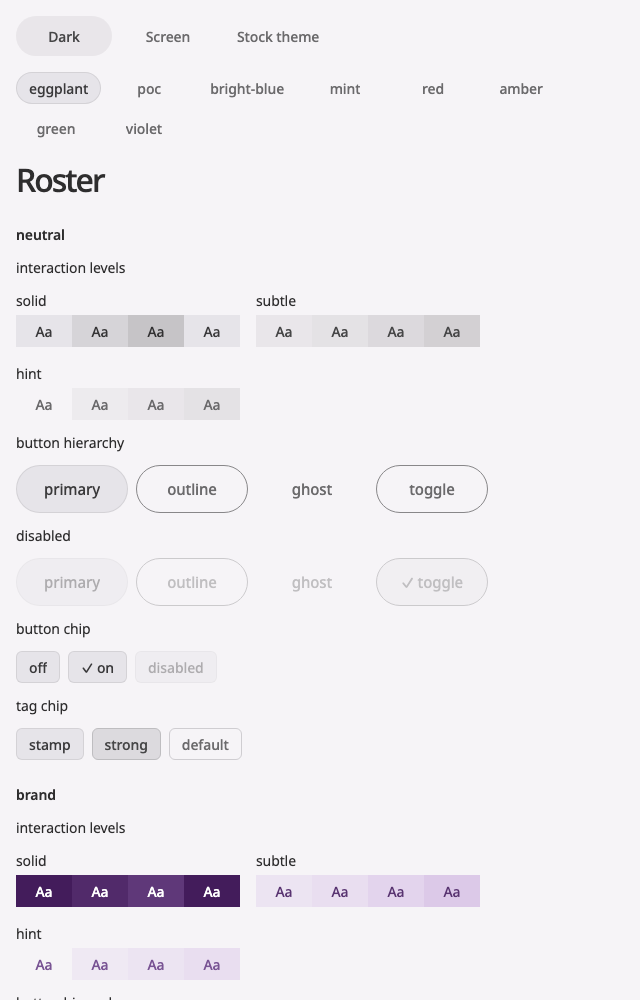
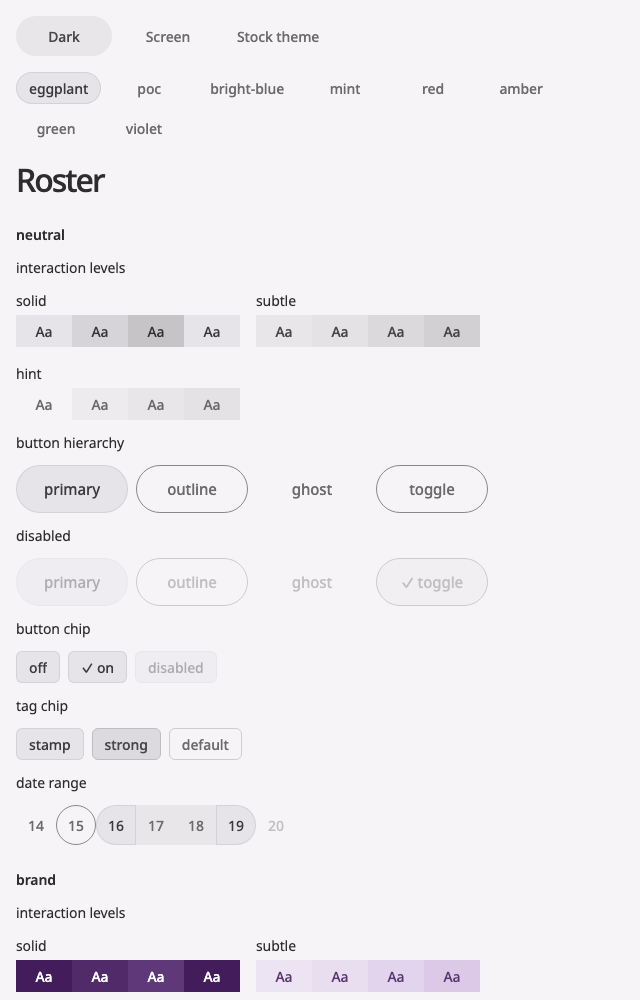
docs(date-picker): the checklist section and record, the exhibit record and shots, the DayCell print set
The checklist gains the picker's ten lines and the record of the automated
run: 37 checks in light and 37 in dark under trusted key and mouse events,
with the hand lines owed listed. The exhibit record adds the picker's shots,
web and native, both modes: the period fields, the calendar dialog, the
roster band. The screen shots are 1300 tall so the period block is in frame.

The print gains the DayCell set, Place by State, 28 variants: a day and
today neutral on the cell, the ends on the solid layer, inside on the subtle
layer at rest, the preview on the hint layer at its hover rung, the band in
the corners. The state-layer instance now copies its host's four corners, so
a host with mixed corners is matched. Both plugin forms regenerated; dry run
clean in the scratch file.

diff --git a/scripts/figma/plugin/code.js b/scripts/figma/plugin/code.js
@@ -10,6 +10,7 @@ const LAYERS = {"solid":[{"state":"resting","fill":"stamp/fill"},{"state":"hover
 const BUTTON = [{"kind":"primary","state":"enabled","layer":"solid","stroke":"stamp/edge","text":"stamp/on","layerState":"resting","opacity":1},{"kind":"primary","state":"hover","layer":"solid","stroke":"stamp/edge","text":"stamp/on","layerState":"hover","opacity":1},{"kind":"primary","state":"pressed","layer":"solid","stroke":"stamp/edge","text":"stamp/on","layerState":"pressed","opacity":1},{"kind":"primary","state":"disabled","layer":"solid","stroke":"stamp/edge","text":"stamp/on","layerState":"disabled","opacity":0.38},{"kind":"outline","state":"enabled","layer":"hint","stroke":"highlighter-26","text":"pencil-47","layerState":"resting","opacity":1},{"kind":"outline","state":"hover","layer":"hint","stroke":"highlighter-26","text":"pencil-47","layerState":"hover","opacity":1},{"kind":"outline","state":"pressed","layer":"hint","stroke":"highlighter-26","text":"pencil-47","layerState":"pressed","opacity":1},{"kind":"outline","state":"disabled","layer":"hint","stroke":"highlighter-26","text":"pencil-47","layerState":"disabled","opacity":0.38},{"kind":"ghost","state":"enabled","layer":"hint","stroke":null,"text":"pencil-47","layerState":"resting","opacity":1},{"kind":"ghost","state":"hover","layer":"hint","stroke":null,"text":"pencil-47","layerState":"hover","opacity":1},{"kind":"ghost","state":"pressed","layer":"hint","stroke":null,"text":"pencil-47","layerState":"pressed","opacity":1},{"kind":"ghost","state":"disabled","layer":"hint","stroke":null,"text":"pencil-47","layerState":"disabled","opacity":0.38},{"kind":"toggle","state":"enabled","layer":"subtle","stroke":"highlighter-26","text":"pencil-47","layerState":"resting","opacity":1},{"kind":"toggle","state":"hover","layer":"subtle","stroke":"highlighter-26","text":"pencil-47","layerState":"hover","opacity":1},{"kind":"toggle","state":"pressed","layer":"subtle","stroke":"highlighter-26","text":"pencil-47","layerState":"pressed","opacity":1},{"kind":"toggle","state":"disabled","layer":"subtle","stroke":"highlighter-26","text":"pencil-47","layerState":"disabled","opacity":0.38}]
 const CHIP = [{"on":false,"state":"enabled","layerState":"resting","opacity":1},{"on":false,"state":"hover","layerState":"hover","opacity":1},{"on":false,"state":"pressed","layerState":"pressed","opacity":1},{"on":false,"state":"disabled","layerState":"disabled","opacity":0.38},{"on":true,"state":"enabled","layerState":"resting","opacity":1},{"on":true,"state":"hover","layerState":"hover","opacity":1},{"on":true,"state":"pressed","layerState":"pressed","opacity":1},{"on":true,"state":"disabled","layerState":"disabled","opacity":0.38}]
 const INDICATOR = [{"level":"stamp","size":"md","height":32,"fill":"stamp/fill","text":"stamp/on","stroke":"stamp/edge"},{"level":"stamp","size":"sm","height":24,"fill":"stamp/fill","text":"stamp/on","stroke":"stamp/edge"},{"level":"strong","size":"md","height":32,"fill":"chalk-11","text":"pen-58","stroke":"chalk-20"},{"level":"strong","size":"sm","height":24,"fill":"chalk-11","text":"pen-58","stroke":"chalk-20"},{"level":"default","size":"md","height":32,"fill":"paper-3","text":"pencil-47","stroke":"chalk-15"},{"level":"default","size":"sm","height":24,"fill":"paper-3","text":"pencil-47","stroke":"chalk-15"}]
+const DAYCELL = [{"place":"day","state":"enabled","layer":"hint","stroke":null,"text":"pencil-47","neutral":true,"corners":"all","layerState":"resting","opacity":1},{"place":"day","state":"hover","layer":"hint","stroke":null,"text":"pencil-47","neutral":true,"corners":"all","layerState":"hover","opacity":1},{"place":"day","state":"pressed","layer":"hint","stroke":null,"text":"pencil-47","neutral":true,"corners":"all","layerState":"pressed","opacity":1},{"place":"day","state":"disabled","layer":"hint","stroke":null,"text":"pencil-47","neutral":true,"corners":"all","layerState":"disabled","opacity":0.38},{"place":"today","state":"enabled","layer":"hint","stroke":"highlighter-26","text":"pencil-47","neutral":true,"corners":"all","layerState":"resting","opacity":1},{"place":"today","state":"hover","layer":"hint","stroke":"highlighter-26","text":"pencil-47","neutral":true,"corners":"all","layerState":"hover","opacity":1},{"place":"today","state":"pressed","layer":"hint","stroke":"highlighter-26","text":"pencil-47","neutral":true,"corners":"all","layerState":"pressed","opacity":1},{"place":"today","state":"disabled","layer":"hint","stroke":"highlighter-26","text":"pencil-47","neutral":true,"corners":"all","layerState":"disabled","opacity":0.38},{"place":"start","state":"enabled","layer":"solid","stroke":"stamp/edge","text":"stamp/on","neutral":false,"corners":"left","layerState":"resting","opacity":1},{"place":"start","state":"hover","layer":"solid","stroke":"stamp/edge","text":"stamp/on","neutral":false,"corners":"left","layerState":"hover","opacity":1},{"place":"start","state":"pressed","layer":"solid","stroke":"stamp/edge","text":"stamp/on","neutral":false,"corners":"left","layerState":"pressed","opacity":1},{"place":"start","state":"disabled","layer":"solid","stroke":"stamp/edge","text":"stamp/on","neutral":false,"corners":"left","layerState":"disabled","opacity":0.38},{"place":"inside","state":"enabled","layer":"subtle","stroke":null,"text":"pencil-47","neutral":false,"corners":"none","layerState":"resting","opacity":1},{"place":"inside","state":"hover","layer":"subtle","stroke":null,"text":"pencil-47","neutral":false,"corners":"none","layerState":"hover","opacity":1},{"place":"inside","state":"pressed","layer":"subtle","stroke":null,"text":"pencil-47","neutral":false,"corners":"none","layerState":"pressed","opacity":1},{"place":"inside","state":"disabled","layer":"subtle","stroke":null,"text":"pencil-47","neutral":false,"corners":"none","layerState":"disabled","opacity":0.38},{"place":"end","state":"enabled","layer":"solid","stroke":"stamp/edge","text":"stamp/on","neutral":false,"corners":"right","layerState":"resting","opacity":1},{"place":"end","state":"hover","layer":"solid","stroke":"stamp/edge","text":"stamp/on","neutral":false,"corners":"right","layerState":"hover","opacity":1},{"place":"end","state":"pressed","layer":"solid","stroke":"stamp/edge","text":"stamp/on","neutral":false,"corners":"right","layerState":"pressed","opacity":1},{"place":"end","state":"disabled","layer":"solid","stroke":"stamp/edge","text":"stamp/on","neutral":false,"corners":"right","layerState":"disabled","opacity":0.38},{"place":"single","state":"enabled","layer":"solid","stroke":"stamp/edge","text":"stamp/on","neutral":false,"corners":"all","layerState":"resting","opacity":1},{"place":"single","state":"hover","layer":"solid","stroke":"stamp/edge","text":"stamp/on","neutral":false,"corners":"all","layerState":"hover","opacity":1},{"place":"single","state":"pressed","layer":"solid","stroke":"stamp/edge","text":"stamp/on","neutral":false,"corners":"all","layerState":"pressed","opacity":1},{"place":"single","state":"disabled","layer":"solid","stroke":"stamp/edge","text":"stamp/on","neutral":false,"corners":"all","layerState":"disabled","opacity":0.38},{"place":"preview","state":"enabled","layer":"hint","stroke":null,"text":"pencil-47","neutral":false,"corners":"none","layerState":"hover","opacity":1},{"place":"preview","state":"hover","layer":"hint","stroke":null,"text":"pencil-47","neutral":false,"corners":"none","layerState":"hover","opacity":1},{"place":"preview","state":"pressed","layer":"hint","stroke":null,"text":"pencil-47","neutral":false,"corners":"none","layerState":"hover","opacity":1},{"place":"preview","state":"disabled","layer":"hint","stroke":null,"text":"pencil-47","neutral":false,"corners":"none","layerState":"hover","opacity":0.38}]
 const INPUT = [{"state":"enabled","family":"neutral"},{"state":"focus","family":"brand"},{"state":"invalid","family":"critical"}]
 const PATHS = {"surfaceHigh":"utility/surface/high","black":"base/absolute/black","scrim":"utility/opacity/064"}
 
@@ -124,7 +125,8 @@ const layerInto = (host, tier, props) => {
   if (!variant) { summary.missing.push('state-layer/' + tier + ' ' + JSON.stringify(props)); return }
   const inst = variant.createInstance(); host.insertChild(0, inst)
   inst.layoutPositioning = 'ABSOLUTE'; inst.constraints = { horizontal: 'STRETCH', vertical: 'STRETCH' }
-  inst.x = 0; inst.y = 0; inst.resize(host.width, host.height); inst.cornerRadius = host.cornerRadius
+  inst.x = 0; inst.y = 0; inst.resize(host.width, host.height)
+  inst.topLeftRadius = host.topLeftRadius; inst.topRightRadius = host.topRightRadius; inst.bottomLeftRadius = host.bottomLeftRadius; inst.bottomRightRadius = host.bottomRightRadius
   return inst
 }
 
@@ -185,6 +187,23 @@ else {
     comps.push(c)
   }
   finishSet(comps, 'IndicatorChip', 'The tag chip, a label that takes no press, on the scale rows of its level. Family is the color family mode on the instance. In code: <IndicatorChip theme="<family>_indicator-<level>">.')
+}
+
+if (existingSet('DayCell')) summary.skipped.push('DayCell set exists; left as is')
+else {
+  const comps = []
+  for (const v of DAYCELL) {
+    const f = frame('day', 40, 40, 0); f.primaryAxisSizingMode = 'FIXED'; f.counterAxisSizingMode = 'FIXED'; f.resize(40, 40); f.paddingTop = f.paddingBottom = 0
+    const r = v.corners === 'all' ? [10000, 10000, 10000, 10000] : v.corners === 'left' ? [10000, 0, 0, 10000] : v.corners === 'right' ? [0, 10000, 10000, 0] : [0, 0, 0, 0]
+    f.topLeftRadius = r[0]; f.topRightRadius = r[1]; f.bottomRightRadius = r[2]; f.bottomLeftRadius = r[3]
+    if (v.stroke) f.strokes = [solid(cfVar[v.stroke])]
+    f.appendChild(text('15', 'Medium', cfVar[v.text])); f.children[f.children.length - 1].fontSize = 14
+    layerInto(f, v.layer, { state: v.layerState })
+    if (v.neutral) setMode(f, NEUTRAL)
+    const c = component(f, v.opacity); c.name = 'Place=' + v.place + ', State=' + v.state
+    comps.push(c)
+  }
+  finishSet(comps, 'DayCell', 'A day in the date range picker\'s calendar (docs/date-picker.md). A day and today are neutral on the cell; the ends of the range are the family\'s stamp by the color family mode on the instance; inside is the subtle layer at rest, the selected ground; the preview is the hint layer at its hover rung; the band is the corners. In code: <DayCell family="<family>" place="<place>">.')
 }
 
 if (page.children.some(n => n.type === 'COMPONENT' && n.name === 'Dialog')) summary.skipped.push('Dialog exists; left as is')

diff --git a/scripts/figma/plugin/code.mcp.js b/scripts/figma/plugin/code.mcp.js
@@ -9,6 +9,7 @@ const LAYERS = {"solid":[{"state":"resting","fill":"stamp/fill"},{"state":"hover
 const BUTTON = [{"kind":"primary","state":"enabled","layer":"solid","stroke":"stamp/edge","text":"stamp/on","layerState":"resting","opacity":1},{"kind":"primary","state":"hover","layer":"solid","stroke":"stamp/edge","text":"stamp/on","layerState":"hover","opacity":1},{"kind":"primary","state":"pressed","layer":"solid","stroke":"stamp/edge","text":"stamp/on","layerState":"pressed","opacity":1},{"kind":"primary","state":"disabled","layer":"solid","stroke":"stamp/edge","text":"stamp/on","layerState":"disabled","opacity":0.38},{"kind":"outline","state":"enabled","layer":"hint","stroke":"highlighter-26","text":"pencil-47","layerState":"resting","opacity":1},{"kind":"outline","state":"hover","layer":"hint","stroke":"highlighter-26","text":"pencil-47","layerState":"hover","opacity":1},{"kind":"outline","state":"pressed","layer":"hint","stroke":"highlighter-26","text":"pencil-47","layerState":"pressed","opacity":1},{"kind":"outline","state":"disabled","layer":"hint","stroke":"highlighter-26","text":"pencil-47","layerState":"disabled","opacity":0.38},{"kind":"ghost","state":"enabled","layer":"hint","stroke":null,"text":"pencil-47","layerState":"resting","opacity":1},{"kind":"ghost","state":"hover","layer":"hint","stroke":null,"text":"pencil-47","layerState":"hover","opacity":1},{"kind":"ghost","state":"pressed","layer":"hint","stroke":null,"text":"pencil-47","layerState":"pressed","opacity":1},{"kind":"ghost","state":"disabled","layer":"hint","stroke":null,"text":"pencil-47","layerState":"disabled","opacity":0.38},{"kind":"toggle","state":"enabled","layer":"subtle","stroke":"highlighter-26","text":"pencil-47","layerState":"resting","opacity":1},{"kind":"toggle","state":"hover","layer":"subtle","stroke":"highlighter-26","text":"pencil-47","layerState":"hover","opacity":1},{"kind":"toggle","state":"pressed","layer":"subtle","stroke":"highlighter-26","text":"pencil-47","layerState":"pressed","opacity":1},{"kind":"toggle","state":"disabled","layer":"subtle","stroke":"highlighter-26","text":"pencil-47","layerState":"disabled","opacity":0.38}]
 const CHIP = [{"on":false,"state":"enabled","layerState":"resting","opacity":1},{"on":false,"state":"hover","layerState":"hover","opacity":1},{"on":false,"state":"pressed","layerState":"pressed","opacity":1},{"on":false,"state":"disabled","layerState":"disabled","opacity":0.38},{"on":true,"state":"enabled","layerState":"resting","opacity":1},{"on":true,"state":"hover","layerState":"hover","opacity":1},{"on":true,"state":"pressed","layerState":"pressed","opacity":1},{"on":true,"state":"disabled","layerState":"disabled","opacity":0.38}]
 const INDICATOR = [{"level":"stamp","size":"md","height":32,"fill":"stamp/fill","text":"stamp/on","stroke":"stamp/edge"},{"level":"stamp","size":"sm","height":24,"fill":"stamp/fill","text":"stamp/on","stroke":"stamp/edge"},{"level":"strong","size":"md","height":32,"fill":"chalk-11","text":"pen-58","stroke":"chalk-20"},{"level":"strong","size":"sm","height":24,"fill":"chalk-11","text":"pen-58","stroke":"chalk-20"},{"level":"default","size":"md","height":32,"fill":"paper-3","text":"pencil-47","stroke":"chalk-15"},{"level":"default","size":"sm","height":24,"fill":"paper-3","text":"pencil-47","stroke":"chalk-15"}]
+const DAYCELL = [{"place":"day","state":"enabled","layer":"hint","stroke":null,"text":"pencil-47","neutral":true,"corners":"all","layerState":"resting","opacity":1},{"place":"day","state":"hover","layer":"hint","stroke":null,"text":"pencil-47","neutral":true,"corners":"all","layerState":"hover","opacity":1},{"place":"day","state":"pressed","layer":"hint","stroke":null,"text":"pencil-47","neutral":true,"corners":"all","layerState":"pressed","opacity":1},{"place":"day","state":"disabled","layer":"hint","stroke":null,"text":"pencil-47","neutral":true,"corners":"all","layerState":"disabled","opacity":0.38},{"place":"today","state":"enabled","layer":"hint","stroke":"highlighter-26","text":"pencil-47","neutral":true,"corners":"all","layerState":"resting","opacity":1},{"place":"today","state":"hover","layer":"hint","stroke":"highlighter-26","text":"pencil-47","neutral":true,"corners":"all","layerState":"hover","opacity":1},{"place":"today","state":"pressed","layer":"hint","stroke":"highlighter-26","text":"pencil-47","neutral":true,"corners":"all","layerState":"pressed","opacity":1},{"place":"today","state":"disabled","layer":"hint","stroke":"highlighter-26","text":"pencil-47","neutral":true,"corners":"all","layerState":"disabled","opacity":0.38},{"place":"start","state":"enabled","layer":"solid","stroke":"stamp/edge","text":"stamp/on","neutral":false,"corners":"left","layerState":"resting","opacity":1},{"place":"start","state":"hover","layer":"solid","stroke":"stamp/edge","text":"stamp/on","neutral":false,"corners":"left","layerState":"hover","opacity":1},{"place":"start","state":"pressed","layer":"solid","stroke":"stamp/edge","text":"stamp/on","neutral":false,"corners":"left","layerState":"pressed","opacity":1},{"place":"start","state":"disabled","layer":"solid","stroke":"stamp/edge","text":"stamp/on","neutral":false,"corners":"left","layerState":"disabled","opacity":0.38},{"place":"inside","state":"enabled","layer":"subtle","stroke":null,"text":"pencil-47","neutral":false,"corners":"none","layerState":"resting","opacity":1},{"place":"inside","state":"hover","layer":"subtle","stroke":null,"text":"pencil-47","neutral":false,"corners":"none","layerState":"hover","opacity":1},{"place":"inside","state":"pressed","layer":"subtle","stroke":null,"text":"pencil-47","neutral":false,"corners":"none","layerState":"pressed","opacity":1},{"place":"inside","state":"disabled","layer":"subtle","stroke":null,"text":"pencil-47","neutral":false,"corners":"none","layerState":"disabled","opacity":0.38},{"place":"end","state":"enabled","layer":"solid","stroke":"stamp/edge","text":"stamp/on","neutral":false,"corners":"right","layerState":"resting","opacity":1},{"place":"end","state":"hover","layer":"solid","stroke":"stamp/edge","text":"stamp/on","neutral":false,"corners":"right","layerState":"hover","opacity":1},{"place":"end","state":"pressed","layer":"solid","stroke":"stamp/edge","text":"stamp/on","neutral":false,"corners":"right","layerState":"pressed","opacity":1},{"place":"end","state":"disabled","layer":"solid","stroke":"stamp/edge","text":"stamp/on","neutral":false,"corners":"right","layerState":"disabled","opacity":0.38},{"place":"single","state":"enabled","layer":"solid","stroke":"stamp/edge","text":"stamp/on","neutral":false,"corners":"all","layerState":"resting","opacity":1},{"place":"single","state":"hover","layer":"solid","stroke":"stamp/edge","text":"stamp/on","neutral":false,"corners":"all","layerState":"hover","opacity":1},{"place":"single","state":"pressed","layer":"solid","stroke":"stamp/edge","text":"stamp/on","neutral":false,"corners":"all","layerState":"pressed","opacity":1},{"place":"single","state":"disabled","layer":"solid","stroke":"stamp/edge","text":"stamp/on","neutral":false,"corners":"all","layerState":"disabled","opacity":0.38},{"place":"preview","state":"enabled","layer":"hint","stroke":null,"text":"pencil-47","neutral":false,"corners":"none","layerState":"hover","opacity":1},{"place":"preview","state":"hover","layer":"hint","stroke":null,"text":"pencil-47","neutral":false,"corners":"none","layerState":"hover","opacity":1},{"place":"preview","state":"pressed","layer":"hint","stroke":null,"text":"pencil-47","neutral":false,"corners":"none","layerState":"hover","opacity":1},{"place":"preview","state":"disabled","layer":"hint","stroke":null,"text":"pencil-47","neutral":false,"corners":"none","layerState":"hover","opacity":0.38}]
 const INPUT = [{"state":"enabled","family":"neutral"},{"state":"focus","family":"brand"},{"state":"invalid","family":"critical"}]
 const PATHS = {"surfaceHigh":"utility/surface/high","black":"base/absolute/black","scrim":"utility/opacity/064"}
 
@@ -123,7 +124,8 @@ const layerInto = (host, tier, props) => {
   if (!variant) { summary.missing.push('state-layer/' + tier + ' ' + JSON.stringify(props)); return }
   const inst = variant.createInstance(); host.insertChild(0, inst)
   inst.layoutPositioning = 'ABSOLUTE'; inst.constraints = { horizontal: 'STRETCH', vertical: 'STRETCH' }
-  inst.x = 0; inst.y = 0; inst.resize(host.width, host.height); inst.cornerRadius = host.cornerRadius
+  inst.x = 0; inst.y = 0; inst.resize(host.width, host.height)
+  inst.topLeftRadius = host.topLeftRadius; inst.topRightRadius = host.topRightRadius; inst.bottomLeftRadius = host.bottomLeftRadius; inst.bottomRightRadius = host.bottomRightRadius
   return inst
 }
 
@@ -184,6 +186,23 @@ else {
     comps.push(c)
   }
   finishSet(comps, 'IndicatorChip', 'The tag chip, a label that takes no press, on the scale rows of its level. Family is the color family mode on the instance. In code: <IndicatorChip theme="<family>_indicator-<level>">.')
+}
+
+if (existingSet('DayCell')) summary.skipped.push('DayCell set exists; left as is')
+else {
+  const comps = []
+  for (const v of DAYCELL) {
+    const f = frame('day', 40, 40, 0); f.primaryAxisSizingMode = 'FIXED'; f.counterAxisSizingMode = 'FIXED'; f.resize(40, 40); f.paddingTop = f.paddingBottom = 0
+    const r = v.corners === 'all' ? [10000, 10000, 10000, 10000] : v.corners === 'left' ? [10000, 0, 0, 10000] : v.corners === 'right' ? [0, 10000, 10000, 0] : [0, 0, 0, 0]
+    f.topLeftRadius = r[0]; f.topRightRadius = r[1]; f.bottomRightRadius = r[2]; f.bottomLeftRadius = r[3]
+    if (v.stroke) f.strokes = [solid(cfVar[v.stroke])]
+    f.appendChild(text('15', 'Medium', cfVar[v.text])); f.children[f.children.length - 1].fontSize = 14
+    layerInto(f, v.layer, { state: v.layerState })
+    if (v.neutral) setMode(f, NEUTRAL)
+    const c = component(f, v.opacity); c.name = 'Place=' + v.place + ', State=' + v.state
+    comps.push(c)
+  }
+  finishSet(comps, 'DayCell', 'A day in the date range picker\'s calendar (docs/date-picker.md). A day and today are neutral on the cell; the ends of the range are the family\'s stamp by the color family mode on the instance; inside is the subtle layer at rest, the selected ground; the preview is the hint layer at its hover rung; the band is the corners. In code: <DayCell family="<family>" place="<place>">.')
 }
 
 if (page.children.some(n => n.type === 'COMPONENT' && n.name === 'Dialog')) summary.skipped.push('Dialog exists; left as is')

diff --git a/scripts/figma/print.ts b/scripts/figma/print.ts
@@ -10,8 +10,8 @@
 //      bound to the plugin's opacity ladder at the register's rung. A host places one
 //      instance stretched over its ground; the family is the `color family` mode on the host.
 //   3. The roster on a page of its own: Button (Kind x State), Chip (Selected x State),
-//      IndicatorChip (Level x Size), Input (State) and Dialog, every fill, edge and text bound
-//      to `color family` rows, light and dark on the file's mode toggle.
+//      IndicatorChip (Level x Size), DayCell (Place x State), Input (State) and Dialog, every
+//      fill, edge and text bound to `color family` rows, light and dark on the file's mode toggle.
 //
 //   node scripts/figma/print.ts          plugin form: logs the summary and closes with one line of it
 //   node scripts/figma/print.ts --mcp    MCP form: ends with `return summary`
@@ -136,6 +136,24 @@ const LEVELS = {
 const indicatorVariants = (Object.keys(LEVELS) as (keyof typeof LEVELS)[]).flatMap(level =>
   [{ size: 'md', height: 32 }, { size: 'sm', height: 24 }].map(s => ({ level, ...s, ...LEVELS[level] })),
 )
+// the day cell (docs/date-picker.md): Place x State. A day and today are neutral on the cell
+// itself; the ends of the range are the family's stamp; inside is the subtle layer, whose
+// resting rung is the selected ground; the preview is the hint layer at its hover rung.
+const PLACES = {
+  day: { layer: 'hint', stroke: null, text: 'pencil-47', neutral: true, corners: 'all' },
+  today: { layer: 'hint', stroke: 'highlighter-26', text: 'pencil-47', neutral: true, corners: 'all' },
+  start: { layer: 'solid', stroke: 'stamp/edge', text: 'stamp/on', neutral: false, corners: 'left' },
+  inside: { layer: 'subtle', stroke: null, text: 'pencil-47', neutral: false, corners: 'none' },
+  end: { layer: 'solid', stroke: 'stamp/edge', text: 'stamp/on', neutral: false, corners: 'right' },
+  single: { layer: 'solid', stroke: 'stamp/edge', text: 'stamp/on', neutral: false, corners: 'all' },
+  preview: { layer: 'hint', stroke: null, text: 'pencil-47', neutral: false, corners: 'none', fixedLayerState: 'hover' },
+} as const
+const dayCellVariants = (Object.keys(PLACES) as (keyof typeof PLACES)[]).flatMap(place =>
+  STATES.map(state => {
+    const p = PLACES[place]
+    return { place, state, layer: p.layer, stroke: p.stroke, text: p.text, neutral: p.neutral, corners: p.corners, layerState: 'fixedLayerState' in p ? p.fixedLayerState : layerState(state), opacity: state === 'disabled' ? Number(tokens.light['disabled-opacity']) : 1 }
+  }),
+)
 // the input: the edge is the family's highlighter-26, the family by the variant's mode
 const inputVariants = [
   { state: 'enabled', family: NEUTRAL },
@@ -158,6 +176,7 @@ const LAYERS = ${JSON.stringify(LAYERS)}
 const BUTTON = ${JSON.stringify(buttonVariants)}
 const CHIP = ${JSON.stringify(chipVariants)}
 const INDICATOR = ${JSON.stringify(indicatorVariants)}
+const DAYCELL = ${JSON.stringify(dayCellVariants)}
 const INPUT = ${JSON.stringify(inputVariants)}
 const PATHS = ${JSON.stringify(paths)}
 
@@ -272,7 +291,8 @@ const layerInto = (host, tier, props) => {
   if (!variant) { summary.missing.push('state-layer/' + tier + ' ' + JSON.stringify(props)); return }
   const inst = variant.createInstance(); host.insertChild(0, inst)
   inst.layoutPositioning = 'ABSOLUTE'; inst.constraints = { horizontal: 'STRETCH', vertical: 'STRETCH' }
-  inst.x = 0; inst.y = 0; inst.resize(host.width, host.height); inst.cornerRadius = host.cornerRadius
+  inst.x = 0; inst.y = 0; inst.resize(host.width, host.height)
+  inst.topLeftRadius = host.topLeftRadius; inst.topRightRadius = host.topRightRadius; inst.bottomLeftRadius = host.bottomLeftRadius; inst.bottomRightRadius = host.bottomRightRadius
   return inst
 }
 
@@ -335,6 +355,23 @@ else {
   finishSet(comps, 'IndicatorChip', 'The tag chip, a label that takes no press, on the scale rows of its level. Family is the color family mode on the instance. In code: <IndicatorChip theme="<family>_indicator-<level>">.')
 }
 
+if (existingSet('DayCell')) summary.skipped.push('DayCell set exists; left as is')
+else {
+  const comps = []
+  for (const v of DAYCELL) {
+    const f = frame('day', 40, 40, 0); f.primaryAxisSizingMode = 'FIXED'; f.counterAxisSizingMode = 'FIXED'; f.resize(40, 40); f.paddingTop = f.paddingBottom = 0
+    const r = v.corners === 'all' ? [10000, 10000, 10000, 10000] : v.corners === 'left' ? [10000, 0, 0, 10000] : v.corners === 'right' ? [0, 10000, 10000, 0] : [0, 0, 0, 0]
+    f.topLeftRadius = r[0]; f.topRightRadius = r[1]; f.bottomRightRadius = r[2]; f.bottomLeftRadius = r[3]
+    if (v.stroke) f.strokes = [solid(cfVar[v.stroke])]
+    f.appendChild(text('15', 'Medium', cfVar[v.text])); f.children[f.children.length - 1].fontSize = 14
+    layerInto(f, v.layer, { state: v.layerState })
+    if (v.neutral) setMode(f, NEUTRAL)
+    const c = component(f, v.opacity); c.name = 'Place=' + v.place + ', State=' + v.state
+    comps.push(c)
+  }
+  finishSet(comps, 'DayCell', 'A day in the date range picker\\'s calendar (docs/date-picker.md). A day and today are neutral on the cell; the ends of the range are the family\\'s stamp by the color family mode on the instance; inside is the subtle layer at rest, the selected ground; the preview is the hint layer at its hover rung; the band is the corners. In code: <DayCell family="<family>" place="<place>">.')
+}
+
 if (page.children.some(n => n.type === 'COMPONENT' && n.name === 'Dialog')) summary.skipped.push('Dialog exists; left as is')
 else {
   const c = figma.createComponent(); c.name = 'Dialog'; c.resize(600, 400); c.fills = []
@@ -377,4 +414,4 @@ const out = mcp
   ? `// GENERATED by scripts/figma/print.ts (MCP form). Paste into the Figma MCP server's script runner.\n${summaryDecl}\ntry {${body}\n} catch (e) { summary.error = String((e && e.stack) || e) }\nreturn summary\n`
   : `// GENERATED by scripts/figma/print.ts (plugin form). Save as scripts/figma/plugin/code.js and load that folder as a development plugin.\n(async () => {\n${summaryDecl}\ntry {${body}\n} catch (e) { summary.error = String((e && e.stack) || e) }\nconsole.log('okchroma-tamagui print', JSON.stringify(summary, null, 1))\nfigma.closePlugin(${summaryLine})\n})()\n`
 process.stdout.write(out)
-process.stderr.write(`print: ${rows.length} color family rows, ${LAYERS.solid.length + LAYERS.subtle.length + LAYERS.hint.length} state-layer variants, ${buttonVariants.length} Button, ${chipVariants.length} Chip, ${indicatorVariants.length} IndicatorChip, ${inputVariants.length} Input variants, ${mcp ? 'MCP' : 'plugin'} form\n`)
+process.stderr.write(`print: ${rows.length} color family rows, ${LAYERS.solid.length + LAYERS.subtle.length + LAYERS.hint.length} state-layer variants, ${buttonVariants.length} Button, ${chipVariants.length} Chip, ${indicatorVariants.length} IndicatorChip, ${dayCellVariants.length} DayCell, ${inputVariants.length} Input variants, ${mcp ? 'MCP' : 'plugin'} form\n`)

diff --git a/docs/checklist-web-a11y.md b/docs/checklist-web-a11y.md
@@ -27,6 +27,21 @@ lives inside a Tamagui component, which the theme cannot reach, opens the contin
 - [ ] Focus returns to the trigger on close.
 - [ ] Content behind is inert while it is open.
 
+## Date range picker
+
+`docs/date-picker.md` holds the contract; these are its lines. The field path comes first.
+
+- [ ] The two fields alone complete a range from the keyboard, no calendar opened.
+- [ ] Each field is labelled, and the format is an instruction tied to it, not only a placeholder.
+- [ ] An impossible or misordered date marks its own field invalid, and the message tied to it names the fix.
+- [ ] The presets are buttons with a pressed state, and one fills both fields.
+- [ ] The calendar opens from its button only, never on focus of a field.
+- [ ] The calendar is a dialog: labelled, focus inside on open, Escape closes, focus returns to the button.
+- [ ] The grid is one tab stop; arrows move by day and week, Page keys by month, Home and End to the week's ends; crossing a month turns the page.
+- [ ] Every cell is named with its full date and its state; cells in the range are selected.
+- [ ] A month change and a completed range are announced once.
+- [ ] A cell is at least 24 by 24 CSS pixels.
+
 ## Record
 
 Date, mode, result per line, and for a failure: theme or component.
@@ -72,3 +87,22 @@ opens from the keyboard; the key that opened it was not named. Tab does not skip
 disabled Saved button: the "not focusable by Tab" line fails by hand in both browsers, and
 the failure is inside the kit, as the 2026-09-21 entry says. Not run: Space, Escape, the
 tab trap inside the dialog, and the order the entry above asks for. Mode not named.
+
+**2026-09-22, light and dark, Vite dev server, trusted key and mouse events through Chrome's
+debugging protocol (the scenario is outside the repository), the date range picker.** All
+ten lines pass in both modes, 37 checks each: the group and the fields are labelled with
+the format tied to both; an impossible date marks the start invalid with a message naming
+the format; an end before the start marks the end invalid with a message naming the start;
+a short typed date is accepted and rewritten in the canonical form; a preset fills both
+fields, clears the error and shows pressed, and the range is announced; Enter on the
+button opens a labelled modal dialog with focus on a day; the grid is named by the month
+heading and described by the instructions; one tab stop among 61 cells, before and after
+moving; ArrowRight, ArrowDown, Home, End, PageUp and PageDown move as the pattern says and
+the heading turns with the page; Enter picks the start with an announcement and an
+instruction, the days between show the preview, Enter picks the end, the cells name start,
+inside and end, four gridcells are selected, the fields show the range, the range is
+announced; Escape closes and focus returns to the button; Tab runs start, end, Calendar,
+then the presets; cells are 40 pixels; the ends are the stamp with its on-text, the inside
+the selected ground, today the neutral edge, the panel the high plane. Owed by hand: the
+same run with a real keyboard, VoiceOver on the native fields and the system picker, and
+the browser name.

diff --git a/docs/exhibit.md b/docs/exhibit.md
@@ -65,3 +65,17 @@ roster rows and the dialog in both modes. Every value is the engine's for the re
 name, with one exception recorded in `docs/plan.md` Traps: on iOS a selected Button takes
 the root theme's selected ground. These files replace the 2026-09-15 set under the same
 names; that set stays in the history. Unjudged: the owner has not yet answered per row.
+
+**2026-09-22, later, brand `eggplant`, okchroma 0.6.1, decision 32, the date range picker.**
+Web from headless Chrome at 640 wide: `screen-web-light`, `screen-web-dark` and the stock
+baseline, now 1300 tall so the Statement period block and its presets are in frame;
+`roster-web-light`, `roster-web-dark`, with the date range band under each color family;
+`picker-web-light`, `picker-web-dark`, the calendar dialog open at 900 wide with a range
+across two months. Native from Expo Go on an iPhone 17 Pro simulator: `period-native-light`,
+`period-native-dark`, the fields and presets in the card; `picker-native-light`,
+`picker-native-dark`, the dialog holding the system picker with a picked range;
+`roster-native-light`, `roster-native-dark` at the brand family, with the band. Read back:
+on web, the contract's 37 checks in both modes under trusted key events
+(`docs/checklist-web-a11y.md`), and the band's six states in every family by computed
+style; on native, the picker's tint by pixel in both modes and both of its selected
+drawings. Unjudged: the owner has not yet answered per row.
